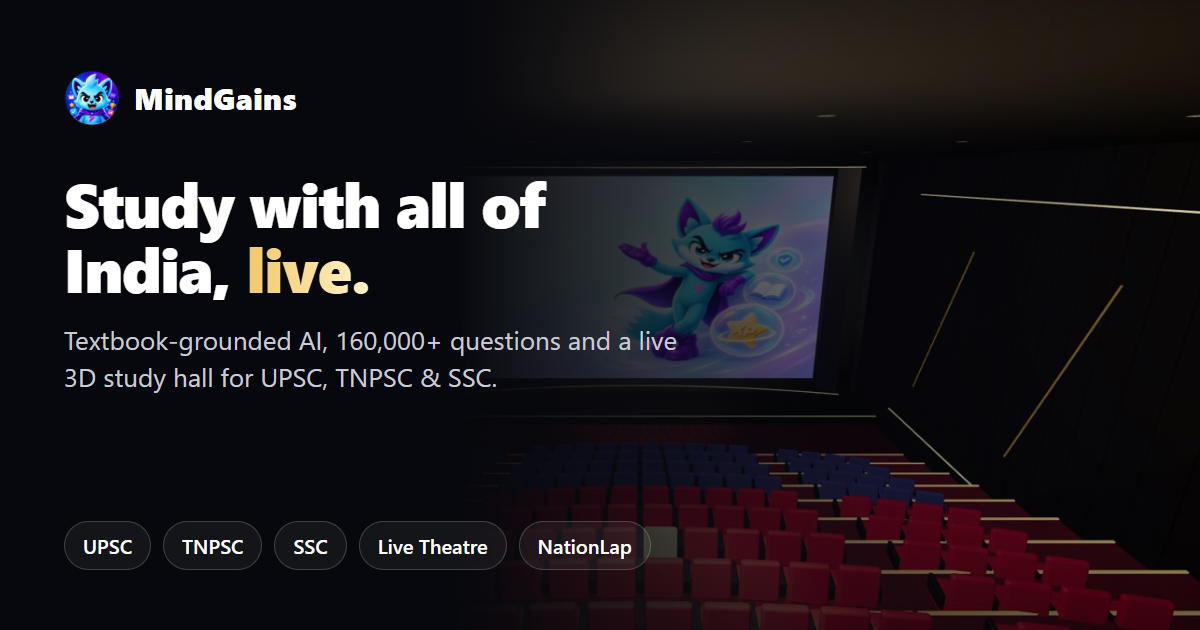
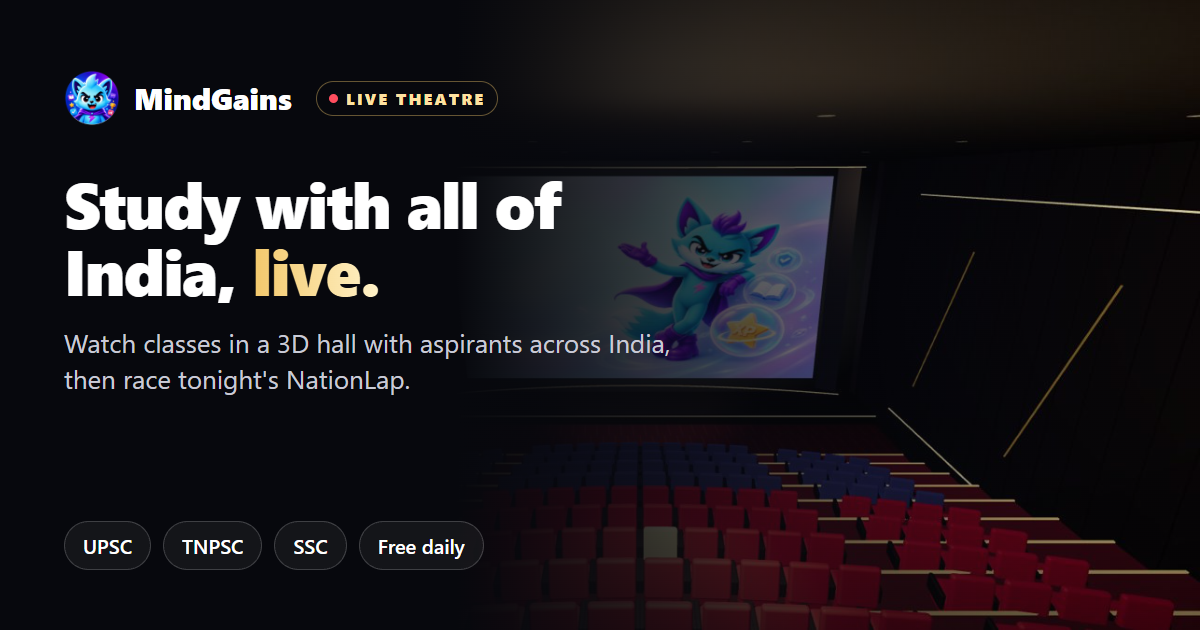
Web positioning: Live Theatre + NationLap lead the home title, description, share image and llms.txt; AI/question bank is app messaging

diff --git a/index.html b/index.html
@@ -4,13 +4,13 @@
   <meta charset="utf-8">
   <meta name="viewport" content="width=device-width, initial-scale=1">
   <!-- SEO metadata below is LOCKED to the live (33857ad) homepage values — do not change. -->
-  <title>MindGains AI — Textbook-Grounded AI for UPSC, TNPSC &amp; SSC Preparation</title>
-  <meta name="description" content="MindGains AI is India’s textbook-grounded AI for exam preparation: answers from NCERT and Samacheer Kalvi, 160,000+ Quiz Hub questions, real PYQs and daily current affairs for UPSC, TNPSC, SSC and RRB.">
+  <title>MindGains: Live Theatre &amp; NationLap — Study with All of India, Live</title>
+  <meta name="description" content="Watch live classes in a 3D theatre with aspirants across India, race the national quiz in NationLap and climb tonight’s rank. UPSC, TNPSC &amp; SSC. Free daily.">
   <link rel="canonical" href="https://mindgains.ai/">
   <meta property="og:type" content="website">
   <meta property="og:site_name" content="MindGains AI">
-<meta property="og:title" content="MindGains AI — Textbook-Grounded AI for UPSC, TNPSC &amp; SSC Preparation">
-  <meta property="og:description" content="Daily Dose, textbook-grounded AI, 160,000+ questions, real PYQs, Miga and personalised revision for Indian learners.">
+<meta property="og:title" content="MindGains: Live Theatre &amp; NationLap — Study with All of India, Live">
+  <meta property="og:description" content="Watch live classes in a 3D theatre with aspirants across India, race the national quiz in NationLap and climb tonight’s rank. UPSC, TNPSC &amp; SSC. Free daily.">
   <meta property="og:url" content="https://mindgains.ai/">
   <meta property="og:image" content="https://mindgains.ai/assets/og-home.png">
   <meta property="og:image:width" content="1200">

diff --git a/.agents/product-marketing.md b/.agents/product-marketing.md
@@ -1,10 +1,11 @@
 # Product Marketing Context
 
-**Document version:** v1
+**Document version:** v2
 **Last updated:** 2026-11-18
 
 ## Product Overview
-**One-liner:** Study with all of India, live: textbook-grounded AI, 160,000+ questions and a 3D study hall for UPSC, TNPSC and SSC.
+**Web focus (decision 2026-11-18):** The website markets ONLY the Live Theatre (major hook) and NationLap. Textbook-grounded AI, the question bank, PYQs and current affairs belong to the Android app; mention them only as "also in the app", never as the web headline.
+**One-liner:** Study with all of India, live: watch classes in a 3D theatre with aspirants across India, then race tonight's NationLap.
 **What it does:** MindGains answers exam questions from the actual textbooks (NCERT, Samacheer Kalvi), gives 160,000+ practice questions with real PYQs and daily current affairs, and turns study into a live, social experience: NationLap (a live quiz race against aspirants across India) and the Live Theatre (a 3D hall where students watch classes together, chat and answer live quizzes). Pro adds Batch rooms, private theatres for friends, classmates or a tuition batch with their own YouTube videos and a teacher who can pause and quiz.
 **Product category:** Government exam preparation app (UPSC / TNPSC / SSC / RRB), "online study room", "study with me".
 **Product type:** B2C web app + Android app (freemium).
@@ -102,7 +103,9 @@
 ## Learnings
 | Date | Learning | Evidence | Applies to | Status |
 |------|----------|----------|------------|--------|
+| 2026-11-18 | Web marketing leads with the Live Theatre, then NationLap; AI/question bank is app-only messaging | Founder decision | All web copy, ads, social, SEO | active |
 | 2026-11 | ~90% of users on mobile; design mobile-first | Founder | All | active |
 
 ## Changelog
+- v2 (2026-11-18) — Repositioned web marketing around Live Theatre (hook) + NationLap; AI answers and question bank moved to app-only messaging.
 - v1 (2026-11-18) — Initial context, auto-drafted from the site, pricing and product.
